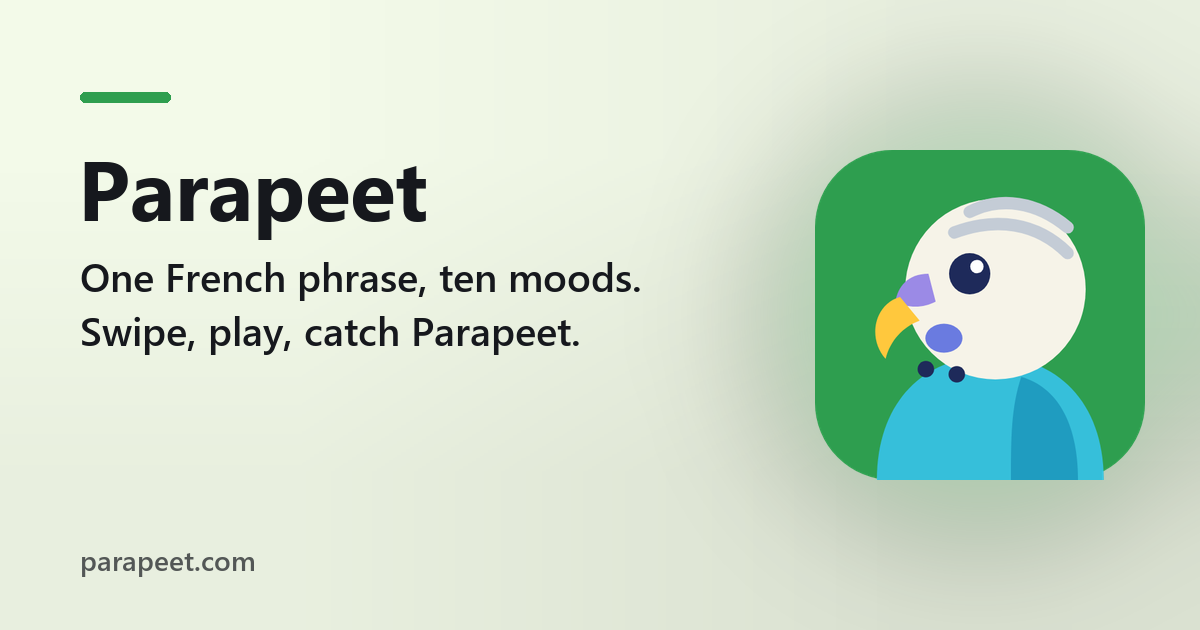
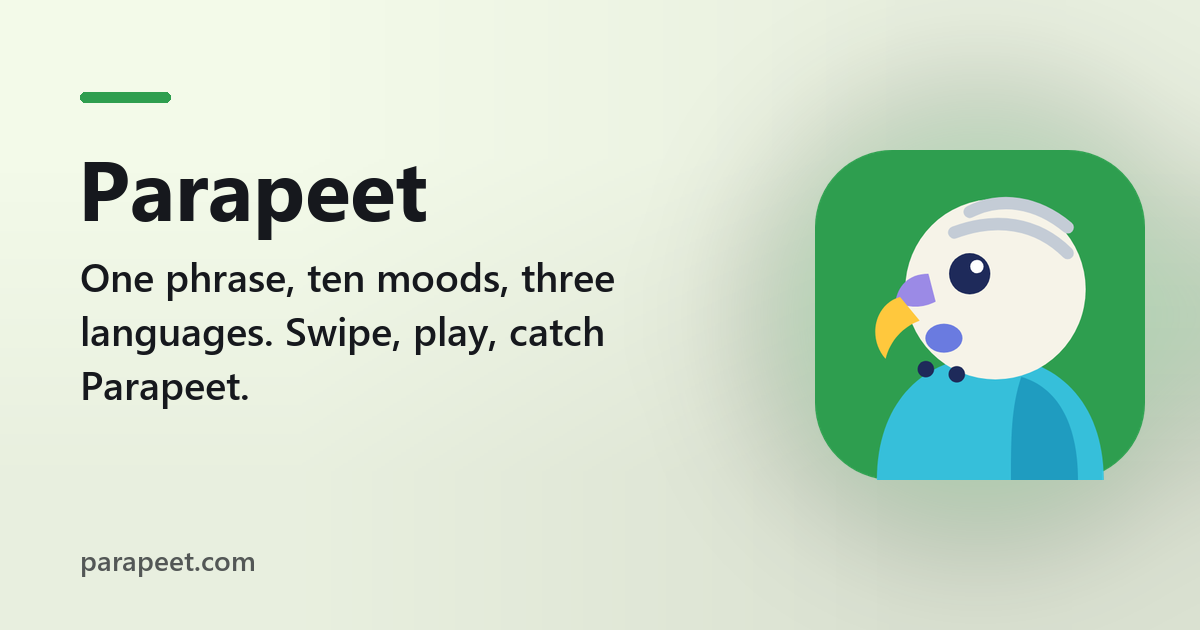
SEO: search and share tags, robots.txt, sitemap.xml, llms.txt, /about

Changed region(s): [[0.0617, 0.4222, 0.5242, 0.6333]]

diff --git a/server_code/seo_routes.py b/server_code/seo_routes.py
@@ -15,33 +15,37 @@ except ImportError:  # seo.py imports this file outside Anvil to render previews
 
 SEO = {
  "name": "Parapeet",
- "title": "Parapeet: French phrases in 10 moods, learned like a game",
- "tagline": "One French phrase, ten moods. Swipe, play, catch Parapeet.",
- "description": "Learn everyday French phrases in ten moods: to your boss, a client, a hothead, a sad friend, your lover. Swipe the cards, play short lessons, keep your streak.",
+ "title": "Parapeet: French, Spanish and Italian phrases in 10 moods",
+ "tagline": "One phrase, ten moods, three languages. Swipe, play, catch Parapeet.",
+ "description": "Learn everyday French, Spanish and Italian phrases in ten moods: to your boss, a client, a sad friend, your lover. Swipe, play short lessons, keep your streak.",
  "keywords": [
   "learn French phrases",
+  "learn Spanish phrases",
+  "learn Italian phrases",
   "French for work",
   "polite French phrases",
   "tu or vous",
+  "tú or usted",
+  "tu or Lei",
   "French conversation practice",
-  "French tone and politeness",
-  "intermediate French app",
-  "business French phrases",
-  "French speaking practice",
+  "Spanish conversation practice",
+  "Italian conversation practice",
+  "intermediate language app",
   "Quebec French practice",
-  "Duolingo alternative French"
+  "Duolingo alternative"
  ],
  "type": "WebApplication",
  "category": "EducationalApplication",
- "audience": "Adults who know some French (about A2 to B2) and want to sound natural at work and at home",
+ "audience": "Adults who know some French, Spanish or Italian (about A2 to B2) and want to sound natural at work and at home",
  "about": [
-  "Parapeet teaches everyday French phrases in ten moods. Each phrase comes in a neutral version and as you would say it to a colleague, a client, your boss, someone who is angry, in a tense moment, to comfort someone sad, to your partner, to someone you admire, and just for a laugh.",
-  "You swipe a card sideways to change the mood and up for the next phrase; the words that change are highlighted and every card shows whether it uses tu or vous. Short lessons mix picking the meaning, guessing the mood, building the sentence from word tiles, listening and saying it out loud.",
-  "It is built like a game: seeds for right answers, a daily goal, streaks, 15 badges and a story about Parapeet, a parakeet who stole your French. You can play without an account; a free account keeps your progress and unlocks more phrases."
+  "Parapeet teaches everyday phrases in French, Spanish and Italian, each in ten moods. Every phrase comes in a neutral version and as you would say it to a colleague, a client, your boss, someone who is angry, in a tense moment, to comfort someone sad, to your partner, to someone you admire, and just for a laugh.",
+  "You swipe a card sideways to change the mood and up for the next phrase; the words that change are highlighted and every card shows whether it is formal or familiar (tu or vous, tú or usted, tu or Lei). Short lessons mix picking the meaning, guessing the mood, building the sentence from word tiles, listening and saying it out loud.",
+  "It is built like a game: seeds for right answers, a daily goal, streaks, 15 badges and a story about Parapeet, a parakeet who stole your words. You can play without an account and switch languages any time; a free account keeps your progress and unlocks more phrases."
  ],
  "features": [
+  "French, Spanish and Italian: the same phrases in the same ten moods",
   "Every phrase in ten moods, from your boss to your lover",
-  "Swipe cards with tu / vous labels and highlighted differences",
+  "Swipe cards with formal / familiar labels and highlighted differences",
   "Short lessons: meaning, mood, word tiles, listening and speaking",
   "Speech check in the browser and record-yourself playback",
   "Seeds, daily goal, streaks and 15 badges",
@@ -54,16 +58,20 @@ SEO = {
    "Yes. You can play without an account. A free account keeps your progress on every device and unlocks more phrases."
   ],
   [
-   "What level of French is it for?",
-   "People who already know some French, roughly A2 to B2, and want to sound natural, polite or warm in different situations."
+   "Which languages can I learn?",
+   "French, Spanish and Italian, with the same phrases in the same ten moods. Switch any time with the flag button at the top; your seeds, streak and badges come with you."
+  ],
+  [
+   "What level is it for?",
+   "People who already know some of the language, roughly A2 to B2, and want to sound natural, polite or warm in different situations."
   ],
   [
    "What are the ten moods?",
    "Neutral, colleague, client, boss, calming someone angry, a tense moment, comforting someone sad, your partner, admiring someone, and silly."
   ],
   [
-   "Is it French from France or Quebec?",
-   "Standard everyday French that works in both. The speech check listens for Canadian French and understands a French accent too."
+   "Which French, Spanish and Italian?",
+   "Standard everyday language: French for France and Quebec, neutral Spanish for Spain and Latin America, and standard Italian."
   ]
  ],
  "free": True,
